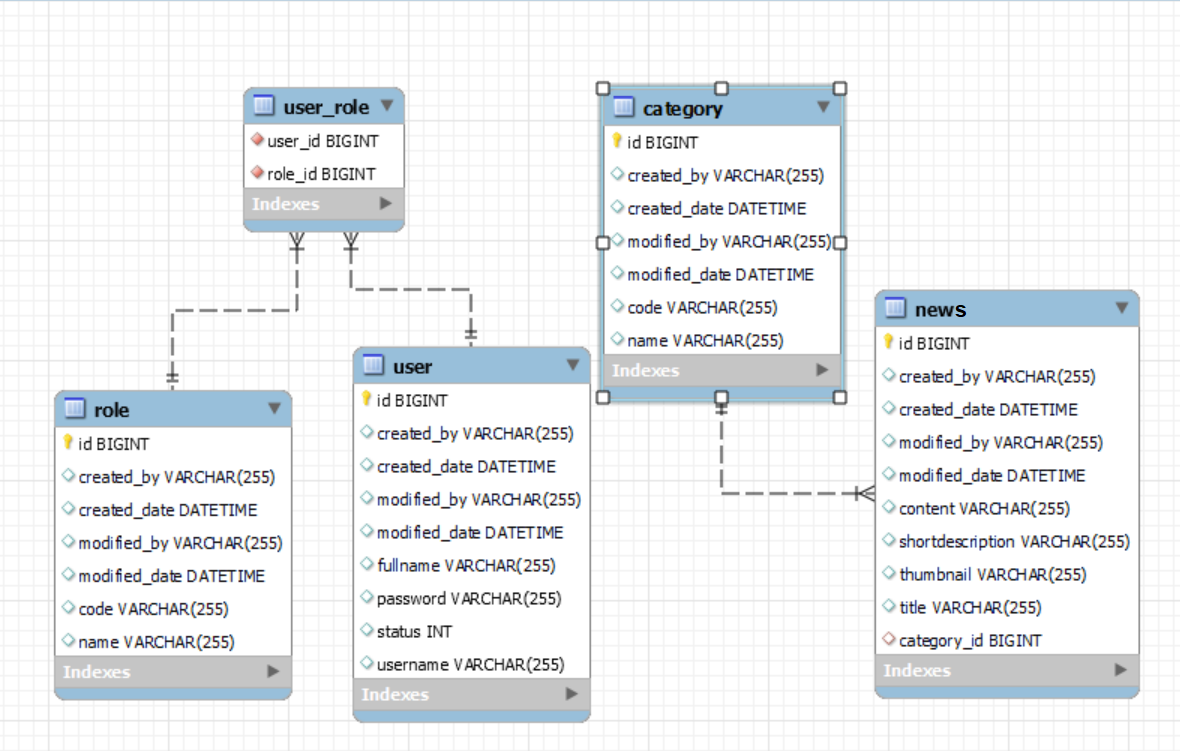
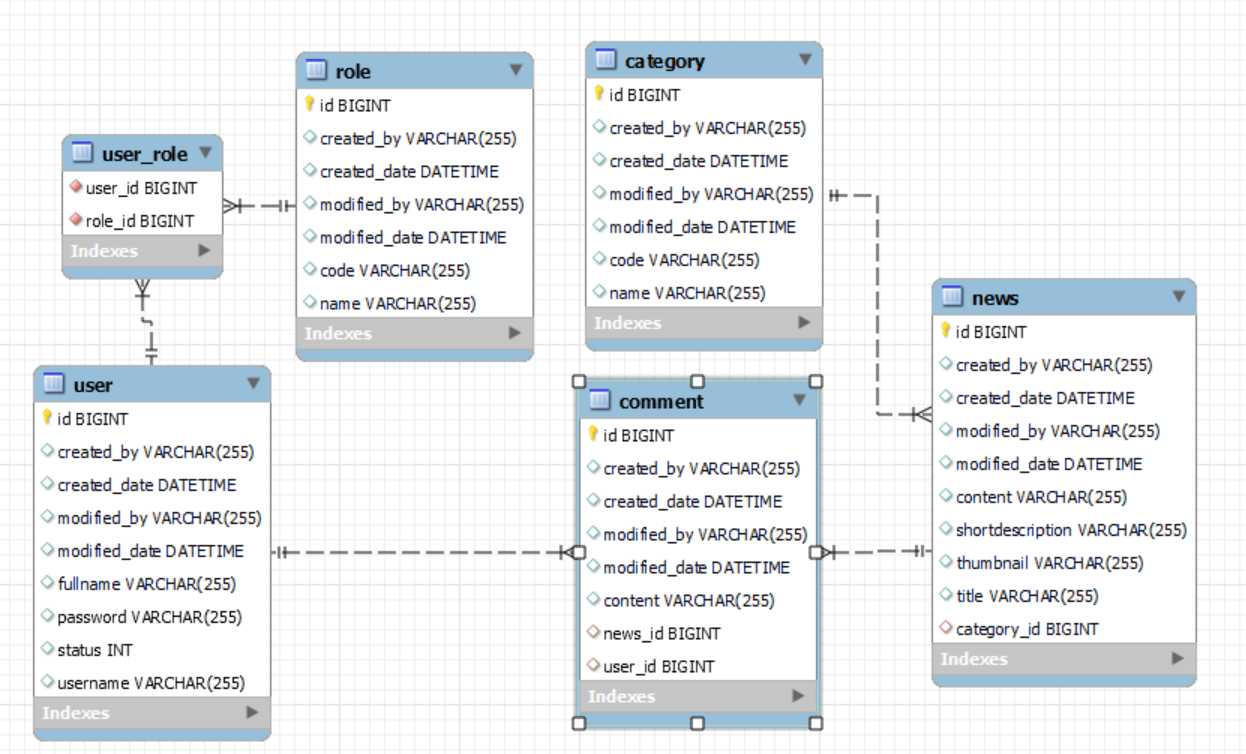
update database

diff --git a/src/main/java/com/springboot/entity/NewsEntity.java b/src/main/java/com/springboot/entity/NewsEntity.java
@@ -1,13 +1,11 @@
 package com.springboot.entity;
 
-import javax.persistence.Column;
-import javax.persistence.Entity;
-import javax.persistence.JoinColumn;
-import javax.persistence.ManyToOne;
-import javax.persistence.Table;
+import javax.persistence.*;
+import java.util.ArrayList;
+import java.util.List;
 
 @Entity
-@Table(name="new")
+@Table(name="news")
 public class NewsEntity extends BaseEntity {
 
 	@Column(name="title")
@@ -22,8 +20,17 @@ public class NewsEntity extends BaseEntity {
 	@Column(name="content")
 	private String content;
 
-	
-	
+	@OneToMany(mappedBy="newsId")
+	private List<CommentEntity> comments = new ArrayList<>();
+
+	public List<CommentEntity> getComments() {
+		return comments;
+	}
+
+	public void setComments(List<CommentEntity> comments) {
+		this.comments = comments;
+	}
+
 	@ManyToOne
 	@JoinColumn(name="category_id")
 	private CategoryEntity category;

diff --git a/src/main/java/com/springboot/entity/CommentEntity.java b/src/main/java/com/springboot/entity/CommentEntity.java
@@ -1,0 +1,47 @@
+package com.springboot.entity;
+
+
+import javax.persistence.*;
+
+@Entity
+@Table(name = "comment")
+public class CommentEntity extends BaseEntity{
+
+
+    private String content;
+
+    @ManyToOne
+    @JoinColumn(name="user_id")
+    private UserEntity userId;
+
+    @ManyToOne
+    @JoinColumn(name="news_id")
+    private NewsEntity newsId;
+
+
+    public UserEntity getUserId() {
+        return userId;
+    }
+
+    public void setUserId(UserEntity userId) {
+        this.userId = userId;
+    }
+
+    public NewsEntity getNewsId() {
+        return newsId;
+    }
+
+    public void setNewsId(NewsEntity newsId) {
+        this.newsId = newsId;
+    }
+
+    public String getContent() {
+        return content;
+    }
+
+    public void setContent(String content) {
+        this.content = content;
+    }
+
+
+}

diff --git a/src/main/java/com/springboot/entity/UserEntity.java b/src/main/java/com/springboot/entity/UserEntity.java
@@ -26,7 +26,18 @@ public class UserEntity extends BaseEntity {
 	@JoinTable(name="user_role", joinColumns = @JoinColumn(name = "user_id"), 
 			   inverseJoinColumns = @JoinColumn(name ="role_id"))
 	private List<RoleEntity> roles = new ArrayList<>();
-	
+
+	public List<CommentEntity> getComments() {
+		return comments;
+	}
+
+	public void setComments(List<CommentEntity> comments) {
+		this.comments = comments;
+	}
+
+	@OneToMany(mappedBy="userId")
+	private List<CommentEntity> comments = new ArrayList<>();
+
 	public List<RoleEntity> getRoles() {
 		return roles;
 	}

diff --git a/src/main/java/com/springboot/entity/CategoryEntity.java b/src/main/java/com/springboot/entity/CategoryEntity.java
@@ -19,16 +19,16 @@ public class CategoryEntity extends BaseEntity {
 	private String name;
 
 	
-	
+
 	@OneToMany(mappedBy="category")
-	private List<NewsEntity> news = new ArrayList<>();
-	
-	public List<NewsEntity> getNews() {
-		return news;
+	private List<NewsEntity> listNews = new ArrayList<>();
+
+	public List<NewsEntity> getListNews() {
+		return listNews;
 	}
 
-	public void setNews(List<NewsEntity> news) {
-		this.news = news;
+	public void setListNews(List<NewsEntity> listNews) {
+		this.listNews = listNews;
 	}
 
 	public String getCode() {

diff --git a/src/main/java/com/springboot/api/admin/AdminAccountAPI.java b/src/main/java/com/springboot/api/admin/AdminAccountAPI.java
@@ -17,7 +17,7 @@ import java.util.Map;
 @RestController
 @CrossOrigin
 @RequestMapping("/admin/api/")
-public class AdminAPI {
+public class AdminAccountAPI {
 
     @Autowired
     private IUserService userService;

diff --git a/src/main/java/com/springboot/api/user/UserAccountAPI.java b/src/main/java/com/springboot/api/user/UserAccountAPI.java
@@ -17,7 +17,7 @@ import java.util.Map;
 @CrossOrigin
 @RestController
 @RequestMapping("/api")
-public class UserAPI {
+public class UserAccountAPI {
 
     @Autowired
     private IUserService userService;

diff --git a/Readme.md b/Readme.md
@@ -6,5 +6,15 @@ mvn clean install
 + Database: MySQL
 
 ### Main Features
-+ Provide client-side API like [CRUD] API for news, account, comment
++ Provide client-side API like [CRUD] API for News, User, Comment, Role, Category
 + Authentication and authorizations.
+
+
+### Example
+
+#### Account
+
++ [GET]: /admin/api/users: get all account but only "ROLE_ADMIN" has permission.
++ [POST]: /api/user: register new account. Everyone has access.
++ [PUT]:  /api/user: update info of account. Everyone has access.
++ [DELETE]: /admin/api/delete: soft-delete. Delete account. Only "ROLE_ADMIN" has permission.
